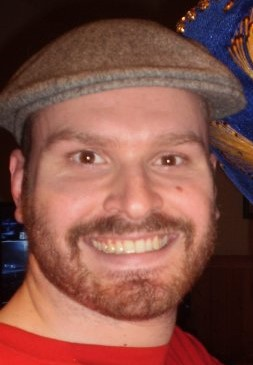
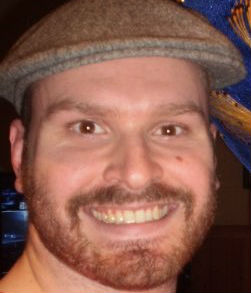
aboutus almost done

diff --git a/about.html b/about.html
@@ -33,7 +33,7 @@
                     <a href="/index.html">home</a>
                 </li>
             </ul>
-            <img id="logo" src="img/001-animals.png">
+            <img id="logo" src="img/dog3.png">
         </nav>
         <div id="outer-hero">
             <div id="network-header">
@@ -49,7 +49,7 @@
                     <tr>
                         <th>
                             <!-- image -->
-                            <img class="pix" src="http://placehold.it/250x250/000" />
+                            <img class="pix" src="img/Sara.jpg" />
                         </th>
                         <td>
                             <h1>Sara Bahrini</h1>
@@ -67,7 +67,7 @@ I've always thought about how to utilize my creative background and M.S. degree.
                     <tr>
                         <th>
                             <!-- image -->
-                            <img class="pix" src="http://placehold.it/250x250/000" />
+                            <img class="pix" src="img/Suzanne.jpg" />
                         </th>
                         <td>
                             <h1>Suzanne Leber</h1>
@@ -88,7 +88,7 @@ I've always thought about how to utilize my creative background and M.S. degree.
                     <tr>
                         <th>
                             <!-- image -->
-                            <img class="pix" src="http://placehold.it/250x250/000" />
+                            <img class="pix" src="img/paul.png" />
                         </th>
                         <td>
                                 <h1>Paul Suarez</h1>
@@ -105,7 +105,7 @@ I've always thought about how to utilize my creative background and M.S. degree.
                     <tr>
                         <th>
                             <!-- image -->
-                            <img class="pix" src="http://placehold.it/250x250/000" />
+                            <img class="pix" src="img/Travis.jpg" />
                         </th>
                         <td>
                                 <h1>Travis Williams</h1>

diff --git a/css/about.css b/css/about.css
@@ -87,3 +87,8 @@ td {
 h1 {
     font-size: 25px;
 }
+
+.pix {
+    width: 250px;
+    height: 250px;
+}
